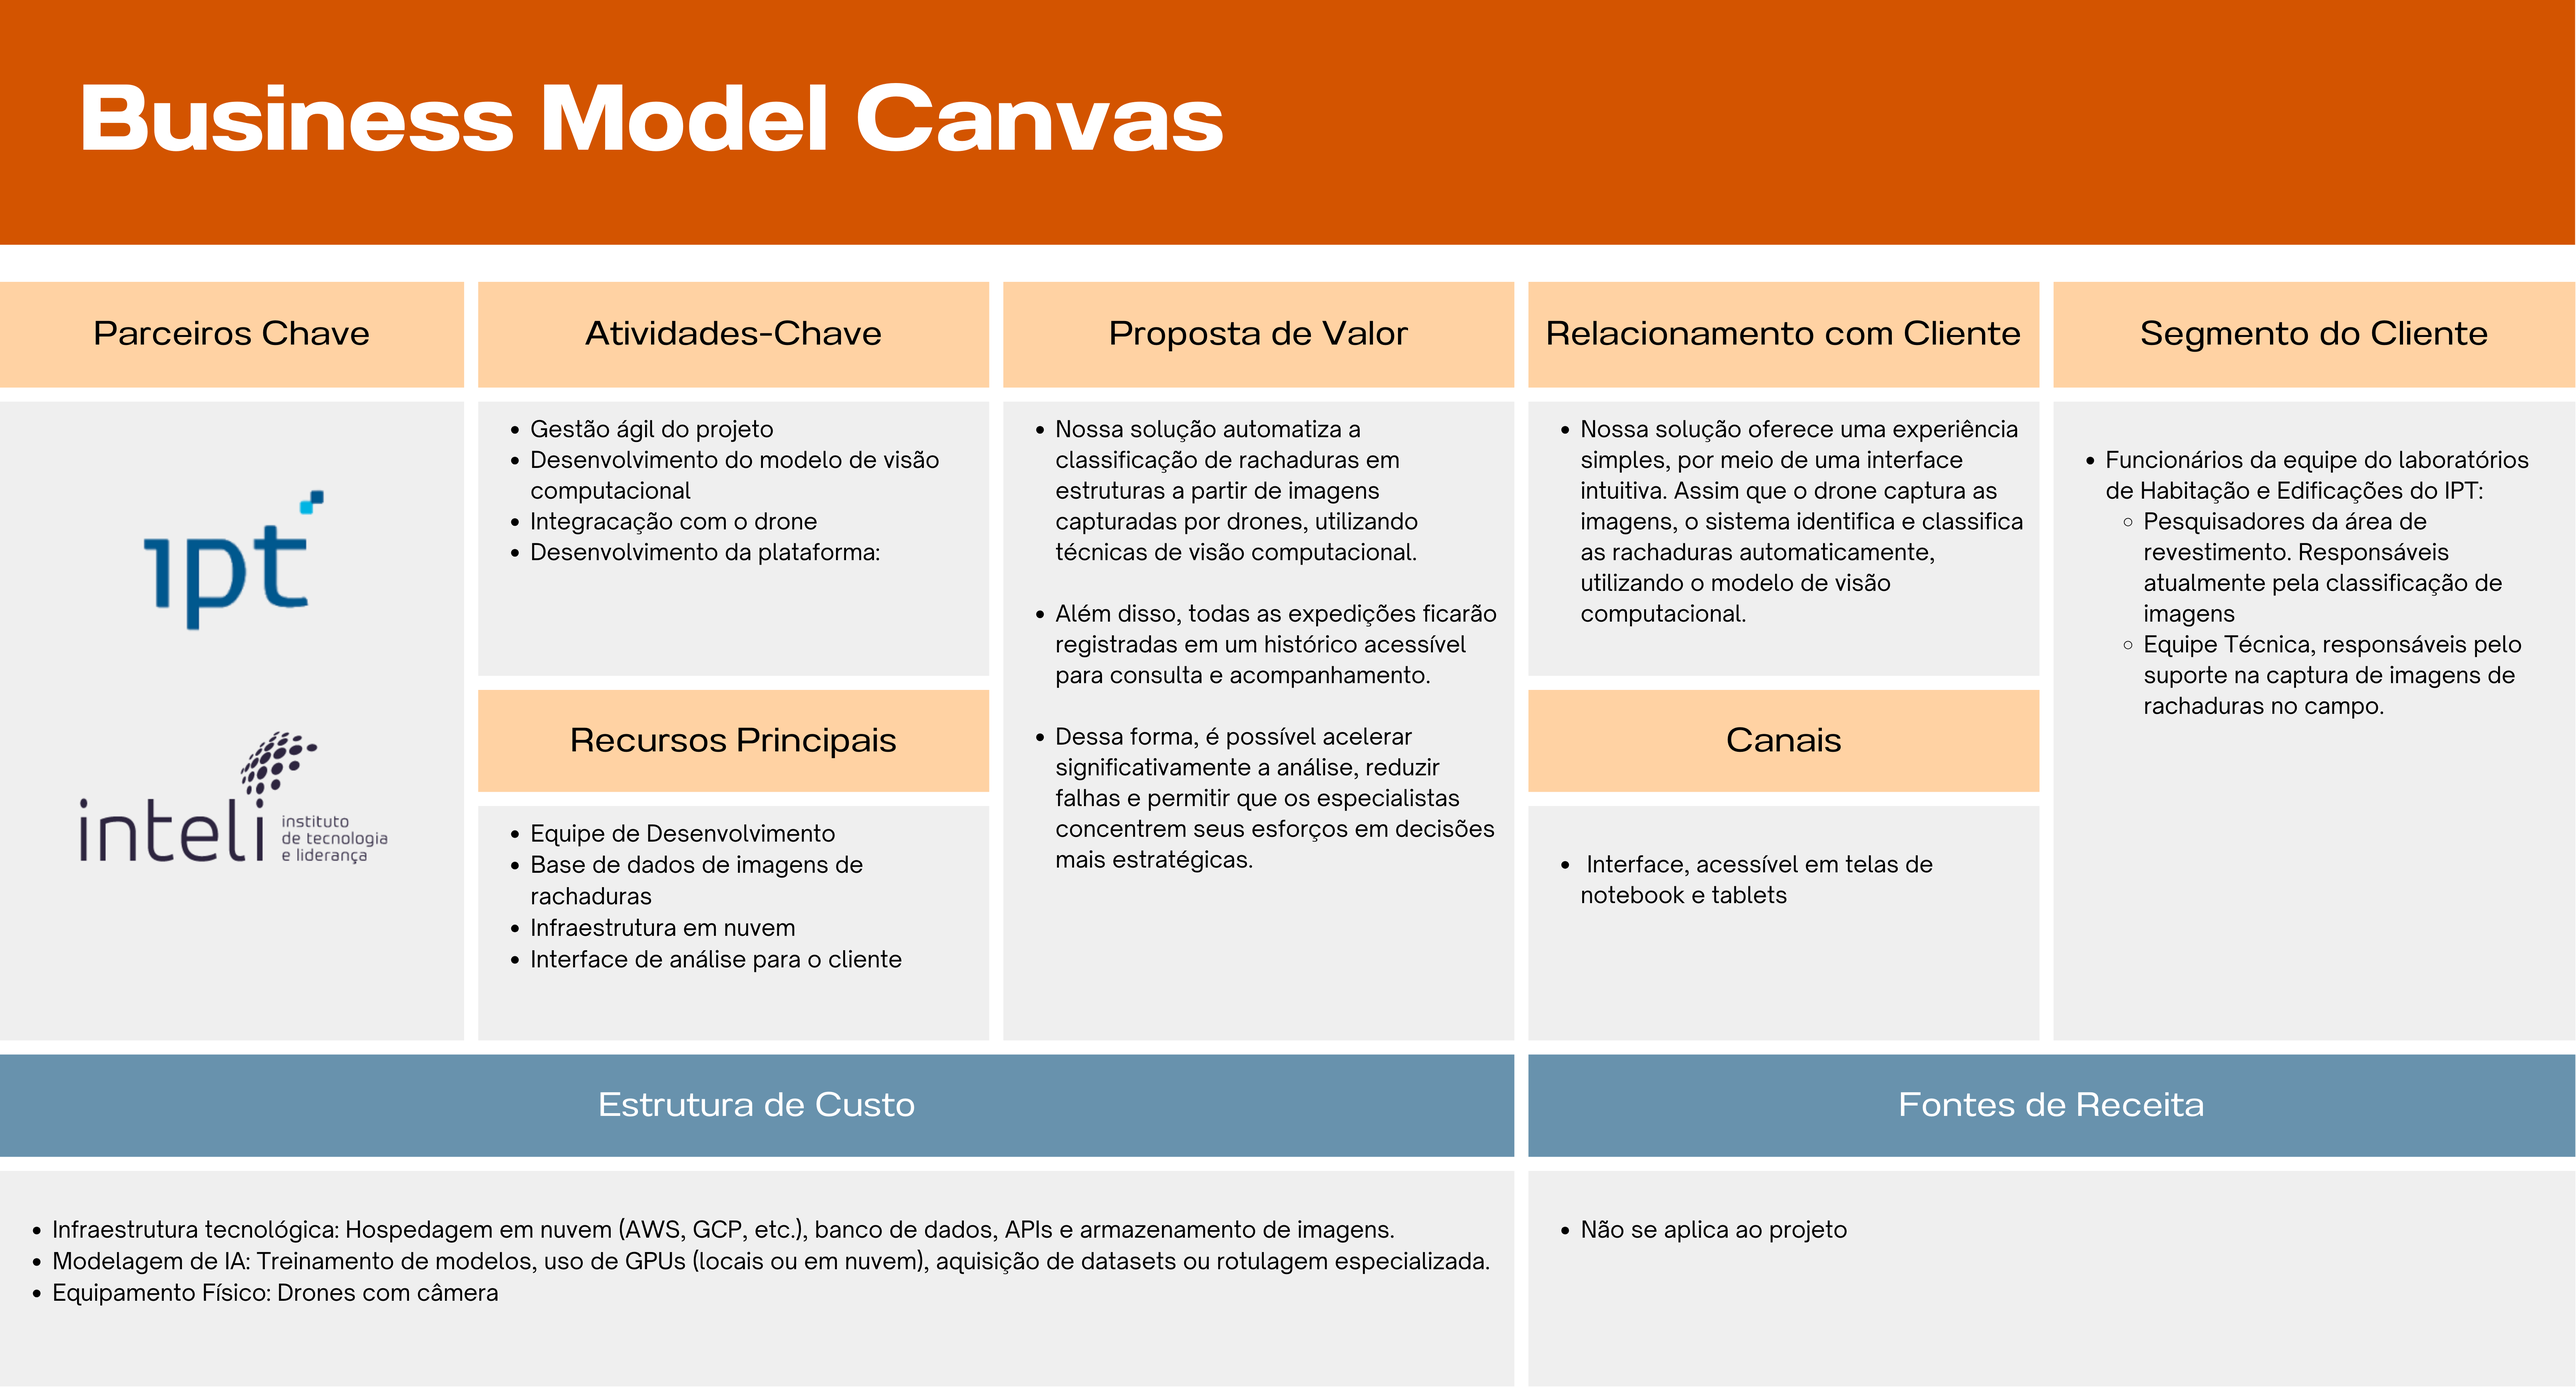
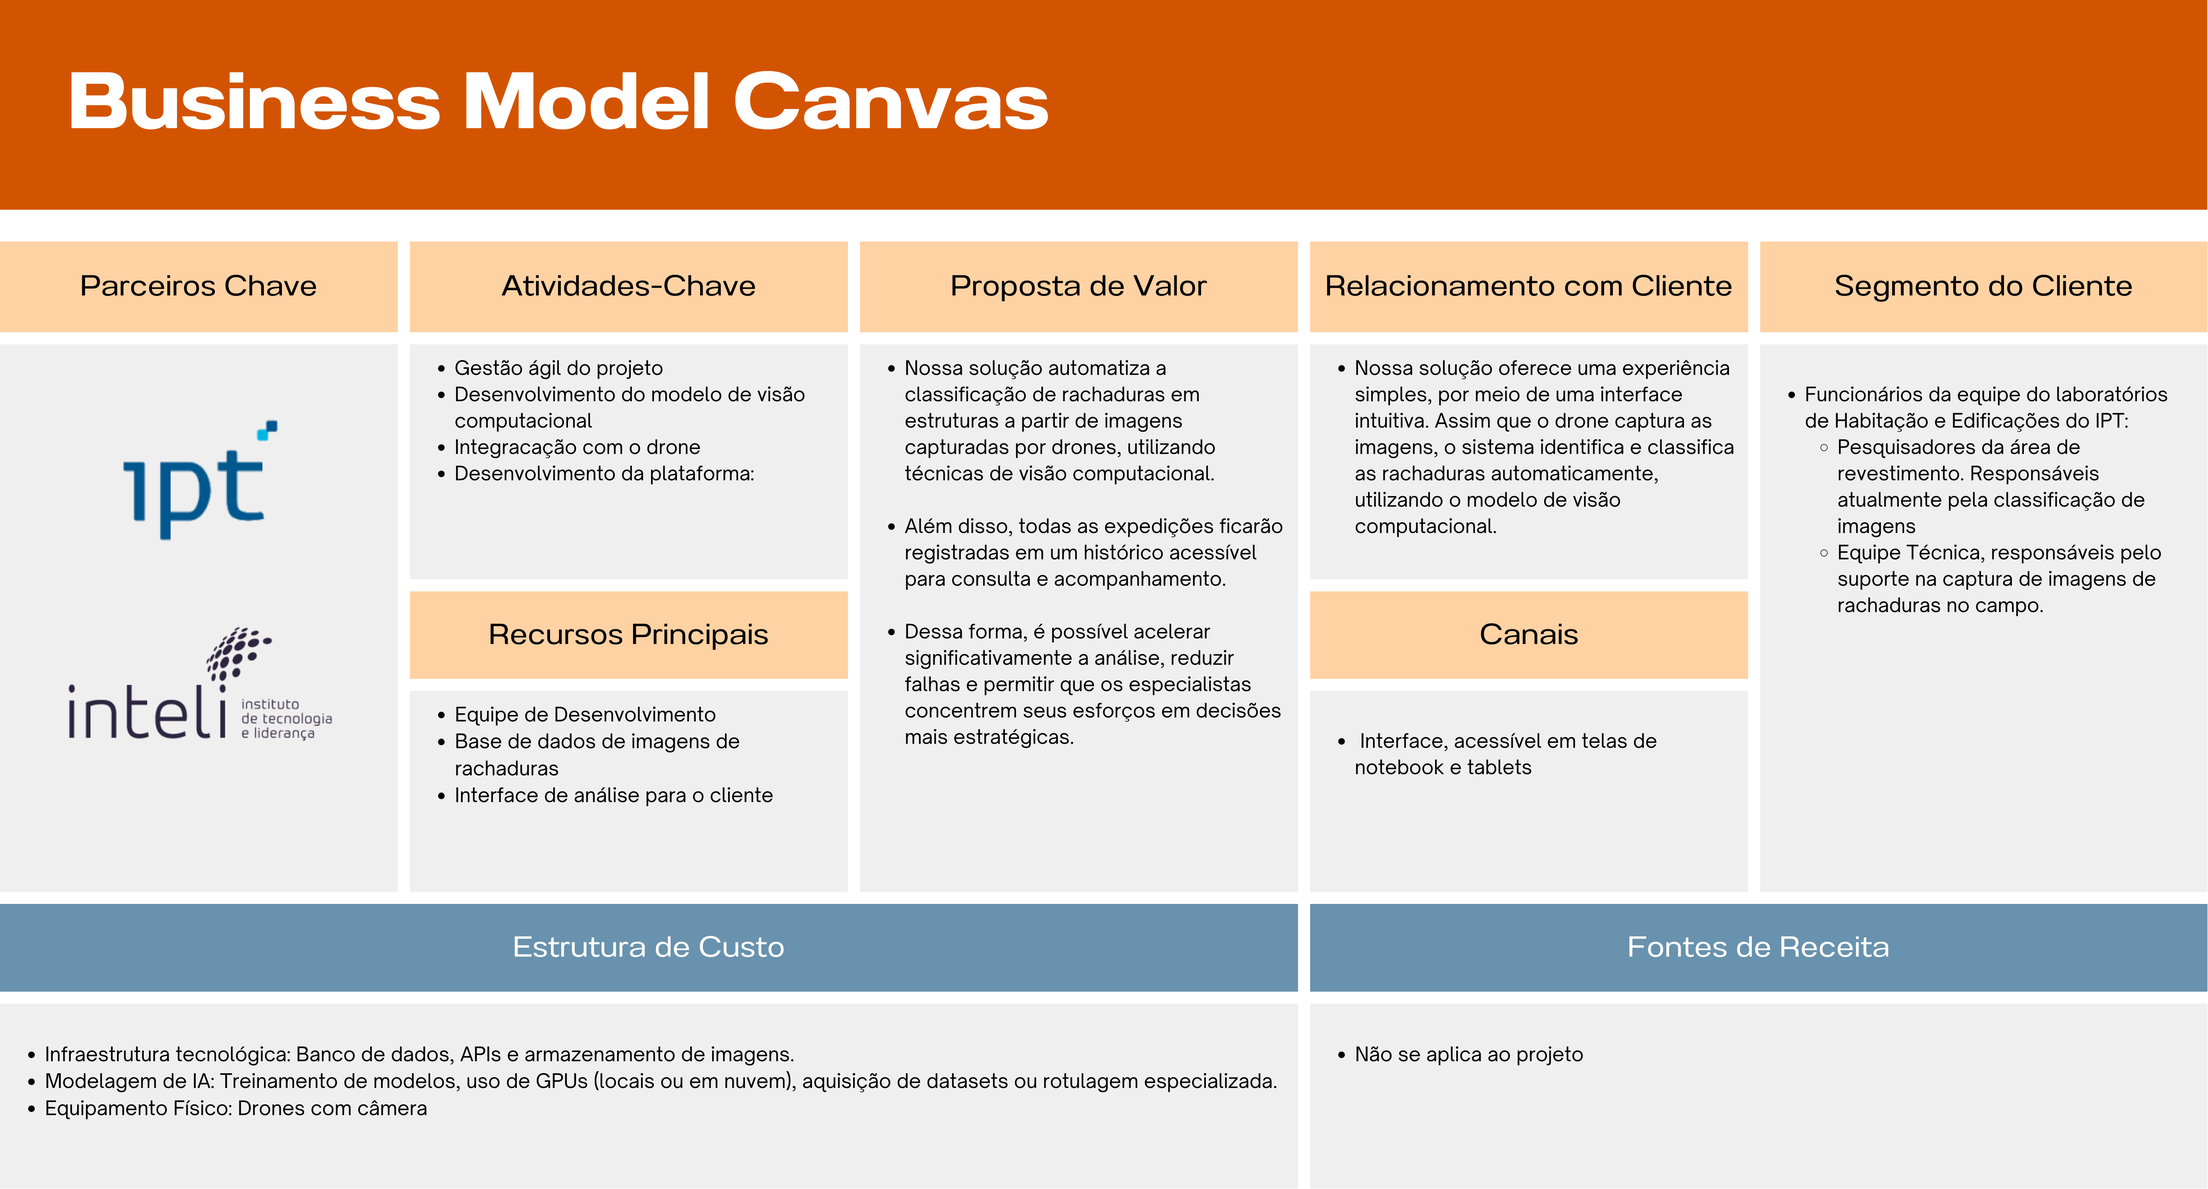
docs: implementa nova imagem de bmc e arruma abtn nos textos

Changed region(s): [[0.1245, 0.8744, 0.5289, 0.9056], [0.2178, 0.6558, 0.3423, 0.7183]]

diff --git a/docs/docs/academico/sprint-1/Proposta de arquitetura/requisitos-funcionais.md b/docs/docs/academico/sprint-1/Proposta de arquitetura/requisitos-funcionais.md
@@ -5,6 +5,8 @@ custom_edit_url: null
 
 # Requisitos Funcionais
 
+## Conceito
+
 &emsp;De forma simplificada, os requisitos funcionais descrevem as ações específicas que um sistema ou aplicativo deve ser capaz de executar. Eles são as capacidades concretas e as operações que o software deve realizar para atender às necessidades e expectativas do usuário. (MIRANDA, 2024).
 
 | RF#  | Descrição | Classificação | 
@@ -25,38 +27,38 @@ custom_edit_url: null
  
 ### RF01 - O sistema deve identificar e classificar as fissuras.
 
-O sistema deve incorporar um modelo de visão computacional capaz de identificar e classificar fissuras em imagens de revestimentos de fachadas de forma precisa. Esta é uma das funcionalidades mais importantes da solução, pois garante a detecção automática, substituindo o processo manual atualmente realizado.
+&nbsp;&nbsp;&nbsp;&nbsp;O sistema deve incorporar um modelo de visão computacional capaz de identificar e classificar fissuras em imagens de revestimentos de fachadas de forma precisa. Esta é uma das funcionalidades mais importantes da solução, pois garante a detecção automática, substituindo o processo manual atualmente realizado.
 
 ### RF02 - O sistema deve permitir o upload de arquivos para a identificação e classificação.
 
-Para viabilizar a classificação automática, o sistema deve permitir que o usuário faça o upload de arquivos de imagem. Após o envio, as imagens devem ser processadas corretamente, garantindo que estejam no formato e na qualidade exigidos pelo modelo de visão computacional. Dessa forma, asseguramos que o sistema consiga identificar e classificar as fissuras de maneira precisa e eficiente.
+&nbsp;&nbsp;&nbsp;&nbsp;Para viabilizar a classificação automática, o sistema deve permitir que o usuário faça o upload de arquivos de imagem. Após o envio, as imagens devem ser processadas corretamente, garantindo que estejam no formato e na qualidade exigidos pelo modelo de visão computacional. Dessa forma, asseguramos que o sistema consiga identificar e classificar as fissuras de maneira precisa e eficiente.
 
 ### RF03 - O sistema deve fazer análise das imagens de forma síncrona.
 
-Além do envio, a análise das imagens deve ocorrer de forma síncrona, garantindo que o processamento aconteça imediatamente após o upload. O fluxo de captura, classificação, armazenamento no banco de dados e exposição dos resultados ao usuário deve ocorrer de maneira automatizada, assegurando rapidez e continuidade na experiência de uso.
+&nbsp;&nbsp;&nbsp;&nbsp;Além do envio, a análise das imagens deve ocorrer de forma síncrona, garantindo que o processamento aconteça imediatamente após o upload. O fluxo de captura, classificação, armazenamento no banco de dados e exposição dos resultados ao usuário deve ocorrer de maneira automatizada, assegurando rapidez e continuidade na experiência de uso.
 
 ### RF04 - O sistema deve guardar o histórico de todas as expedições.
 
-Após a conclusão de uma expedição, em que o cliente realiza a captura e classificação das fissuras, todas as imagens geradas devem ser armazenadas no banco de dados do sistema. Além disso, essas informações devem estar disponíveis na interface, permitindo que o cliente acesse e consulte o histórico de expedições a qualquer momento de forma prática e organizada.
+&nbsp;&nbsp;&nbsp;&nbsp;Após a conclusão de uma expedição, em que o cliente realiza a captura e classificação das fissuras, todas as imagens geradas devem ser armazenadas no banco de dados do sistema. Além disso, essas informações devem estar disponíveis na interface, permitindo que o cliente acesse e consulte o histórico de expedições a qualquer momento de forma prática e organizada.
 
 ### RF05 - O sistema deve mostrar as estatísticas sobre as expedições.
 
-Atendendo a uma demanda do cliente, o sistema deve disponibilizar estatísticas que apresentem informações-chave sobre as expedições realizadas. Entre os dados exibidos, devem constar, por exemplo, o tipo de fissura mais frequentemente classificado nas imagens. Dessa forma, o cliente poderá ter uma visão analítica e rápida sobre os resultados obtidos em campo.
+&nbsp;&nbsp;&nbsp;&nbsp;Atendendo a uma demanda do cliente, o sistema deve disponibilizar estatísticas que apresentem informações-chave sobre as expedições realizadas. Entre os dados exibidos, devem constar, por exemplo, o tipo de fissura mais frequentemente classificado nas imagens. Dessa forma, o cliente poderá ter uma visão analítica e rápida sobre os resultados obtidos em campo.
 
 ### RF06 - O sistema deve relacionar as fissuras detectadas com suas possíveis causas.
 
-Apesar de ter sido classificado como um requisito desejável, este item representa uma evolução importante da solução. Atualmente, estamos na Sprint 1 e ainda não recebemos a tabela de banco de dados necessária para o treinamento dos modelos. Caso essa tabela contenha informações que caracterizem as possíveis causas das fissuras, ou ainda, caso recebamos algum arquivo complementar que descreva as principais causas associadas a cada tipo de fissura, o sistema deverá utilizar esses dados para mapear automaticamente a origem provável das manifestações. Essas informações deverão ser exibidas de forma clara na interface para consulta dos usuários.
+&nbsp;&nbsp;&nbsp;&nbsp;Apesar de ter sido classificado como um requisito desejável, este item representa uma evolução importante da solução. Atualmente, estamos na Sprint 1 e ainda não recebemos a tabela de banco de dados necessária para o treinamento dos modelos. Caso essa tabela contenha informações que caracterizem as possíveis causas das fissuras, ou ainda, caso recebamos algum arquivo complementar que descreva as principais causas associadas a cada tipo de fissura, o sistema deverá utilizar esses dados para mapear automaticamente a origem provável das manifestações. Essas informações deverão ser exibidas de forma clara na interface para consulta dos usuários.
 
 ### RF07 - O sistema deve identificar a espessura da fissura.
 
-Este é um requisito funcional desejável, que poderá ser implementado conforme a viabilidade técnica do projeto. A ideia é que o sistema utilize técnicas de análise de escala matemática para estimar a medida da espessura das fissuras presentes nas imagens capturadas. Caso essa abordagem se mostre viável, será possível enriquecer ainda mais o diagnóstico automatizado, oferecendo informações adicionais relevantes para a avaliação das manifestações patológicas.
+&nbsp;&nbsp;&nbsp;&nbsp;Este é um requisito funcional desejável, que poderá ser implementado conforme a viabilidade técnica do projeto. A ideia é que o sistema utilize técnicas de análise de escala matemática para estimar a medida da espessura das fissuras presentes nas imagens capturadas. Caso essa abordagem se mostre viável, será possível enriquecer ainda mais o diagnóstico automatizado, oferecendo informações adicionais relevantes para a avaliação das manifestações patológicas.
 
 ### RF08 - O sistema deve ter um mecanismo de login
 
-O sistema deve contar com um mecanismo de login para controle de acesso. Essa funcionalidade é fundamental para garantir a criação e a gestão de usuários, bem como a segurança e a rastreabilidade das alterações realizadas. Por meio do login, apenas pessoas autorizadas poderão acessar a plataforma, e todas as modificações feitas no sistema serão vinculadas ao usuário responsável, permitindo a identificação e auditoria das ações.
+&nbsp;&nbsp;&nbsp;&nbsp;O sistema deve contar com um mecanismo de login para controle de acesso. Essa funcionalidade é fundamental para garantir a criação e a gestão de usuários, bem como a segurança e a rastreabilidade das alterações realizadas. Por meio do login, apenas pessoas autorizadas poderão acessar a plataforma, e todas as modificações feitas no sistema serão vinculadas ao usuário responsável, permitindo a identificação e auditoria das ações.
 
 ## Conclusão
-A definição clara dos requisitos funcionais é essencial para guiar o desenvolvimento da solução, assegurando que todas as funcionalidades críticas, importantes e desejáveis sejam atendidas conforme as necessidades do cliente. Com isso, o projeto estabelece uma base sólida para a construção de um sistema eficiente, confiável e alinhado às expectativas dos usuários finais.
+&nbsp;&nbsp;&nbsp;&nbsp;A definição clara dos requisitos funcionais é essencial para guiar o desenvolvimento da solução, assegurando que todas as funcionalidades críticas, importantes e desejáveis sejam atendidas conforme as necessidades do cliente. Com isso, o projeto estabelece uma base sólida para a construção de um sistema eficiente, confiável e alinhado às expectativas dos usuários finais.
 
 ---
 

diff --git a/docs/docs/academico/sprint-1/Entendimento do Negócio/Business Model Canvas.md b/docs/docs/academico/sprint-1/Entendimento do Negócio/Business Model Canvas.md
@@ -5,20 +5,26 @@ custom_edit_url: null
 
 # Business Model Canvas
 
-O Business Model Canvas (BMC) é uma ferramenta de gestão estratégica e empreendedorismo. Ele permite que você descreva, projete, desafie, invente e dinamize seu modelo de negócios (STRATEGYZER, 2025).
+## Conceito
 
-Oferecendo uma visão clara, concisa e focada do modelo de negócio, facilitando ajustes rápidos e comunicação com stakeholders. O BMC ajuda a reduzir riscos ao conectar proposta de valor, clientes e receitas, promovendo inovação tanto em startups quanto em grandes empresas.
+&nbsp;&nbsp;&nbsp;&nbsp;O Business Model Canvas (BMC) é uma ferramenta de gestão estratégica e empreendedorismo. Ele permite que você descreva, projete, desafie, invente e dinamize seu modelo de negócios (STRATEGYZER, 2025).
 
-Para entender melhor se a solução idealizada pela nosso grupo está alinhada com as necessidades do cliente, foi elaborado um Business Model Canvas. A seguir, é possível visualiza-lo
+&nbsp;&nbsp;&nbsp;&nbsp;Oferecendo uma visão clara, concisa e focada do modelo de negócio, facilitando ajustes rápidos e comunicação com stakeholders. O BMC ajuda a reduzir riscos ao conectar proposta de valor, clientes e receitas, promovendo inovação tanto em startups quanto em grandes empresas.
 
-<div align="center">
-![Módulo físico de separação](../../../../static/img/bmc.png)
-<sub>Fonte: Material produzido pelos autores (2025).</sub>
+&nbsp;&nbsp;&nbsp;&nbsp;Para entender melhor se a solução idealizada pela nosso grupo está alinhada com as necessidades do cliente, foi elaborado um Business Model Canvas. A seguir, é possível visualiza-lo
+
+<p style={{textAlign: 'center'}}>Figura 1 - Business Model Canvas</p>
+<div style={{margin: 25}}>
+    <div style={{textAlign: 'center'}}>
+        <img src={require("../../../../static/img/bmc.png").default} style={{width: 800}} alt="Business Model Canvas" />
+        <br />
+    </div>
 </div>
+<p style={{textAlign: 'center'}}>Fonte: Os autores (2025)</p>
 
 ## 1.1 Parceitos Chave
 
-IPT e Inteli
+&nbsp;&nbsp;&nbsp;&nbsp;IPT e Inteli
 
 ## 1.2 Atividades-Chave
 
@@ -36,16 +42,16 @@ IPT e Inteli
 
 ## 1.4 Proposta de Valor
 
-Nossa solução automatiza a classificação de rachaduras em estruturas a partir de imagens capturadas por drones, utilizando técnicas de visão computacional. Além disso, todas as expedições ficarão registradas em um histórico acessível para consulta e acompanhamento. Atualmente, esse processo é feito manualmente por pesquisadores do IPT, que utilizam seu conhecimento técnico para identificar e classificar os tipos de rachaduras. No entanto, trata-se de uma tarefa repetitiva, demorada e suscetível a erros. Com nossa solução, é possível acelerar significativamente a análise, reduzir falhas e permitir que os especialistas concentrem seus esforços em decisões mais estratégicas.
+&nbsp;&nbsp;&nbsp;&nbsp;Nossa solução automatiza a classificação de rachaduras em estruturas a partir de imagens capturadas por drones, utilizando técnicas de visão computacional. Além disso, todas as expedições ficarão registradas em um histórico acessível para consulta e acompanhamento. Atualmente, esse processo é feito manualmente por pesquisadores do IPT, que utilizam seu conhecimento técnico para identificar e classificar os tipos de rachaduras. No entanto, trata-se de uma tarefa repetitiva, demorada e suscetível a erros. Com nossa solução, é possível acelerar significativamente a análise, reduzir falhas e permitir que os especialistas concentrem seus esforços em decisões mais estratégicas.
 
 ## 1.5 Relacionamento com Cliente
 
-Nossa solução oferece uma experiência simples e acessível para o cliente, por meio de uma interface intuitiva que facilita o uso da plataforma. Assim que o drone captura as imagens das estruturas, o sistema identifica e classifica as rachaduras automaticamente, utilizando um modelo de visão computacional, sem a necessidade de processos manuais, que são demorados e sujeitos a erros.
+&nbsp;&nbsp;&nbsp;&nbsp;Nossa solução oferece uma experiência simples e acessível para o cliente, por meio de uma interface intuitiva que facilita o uso da plataforma. Assim que o drone captura as imagens das estruturas, o sistema identifica e classifica as rachaduras automaticamente, utilizando um modelo de visão computacional, sem a necessidade de processos manuais, que são demorados e sujeitos a erros.
 Nosso objetivo é oferecer agilidade, precisão nos resultados e incentivando o uso contínuo da solução.
 
 ## 1.6 Canais
 
-Interface, acessível em telas de notebook e tablets
+&nbsp;&nbsp;&nbsp;&nbsp;Interface, acessível em telas de notebook e tablets
 
 
 ## 1.7 Segmento do Cliente
@@ -66,7 +72,7 @@ Interface, acessível em telas de notebook e tablets
 
 ## Conclusão
 
-A elaboração do Business Model Canvas permitiu estruturar de forma clara e estratégica o funcionamento da solução proposta, alinhando as necessidades do IPT com a inovação tecnológica desenvolvida. Com isso, foi possível visualizar os principais parceiros, recursos, atividades, canais e o valor agregado ao cliente, reforçando a eficiência e a aplicabilidade da ferramenta no contexto de inspeção de fissuras em edificações.
+&nbsp;&nbsp;&nbsp;&nbsp;A elaboração do Business Model Canvas permitiu estruturar de forma clara e estratégica o funcionamento da solução proposta, alinhando as necessidades do IPT com a inovação tecnológica desenvolvida. Com isso, foi possível visualizar os principais parceiros, recursos, atividades, canais e o valor agregado ao cliente, reforçando a eficiência e a aplicabilidade da ferramenta no contexto de inspeção de fissuras em edificações.
 
 ---
 
